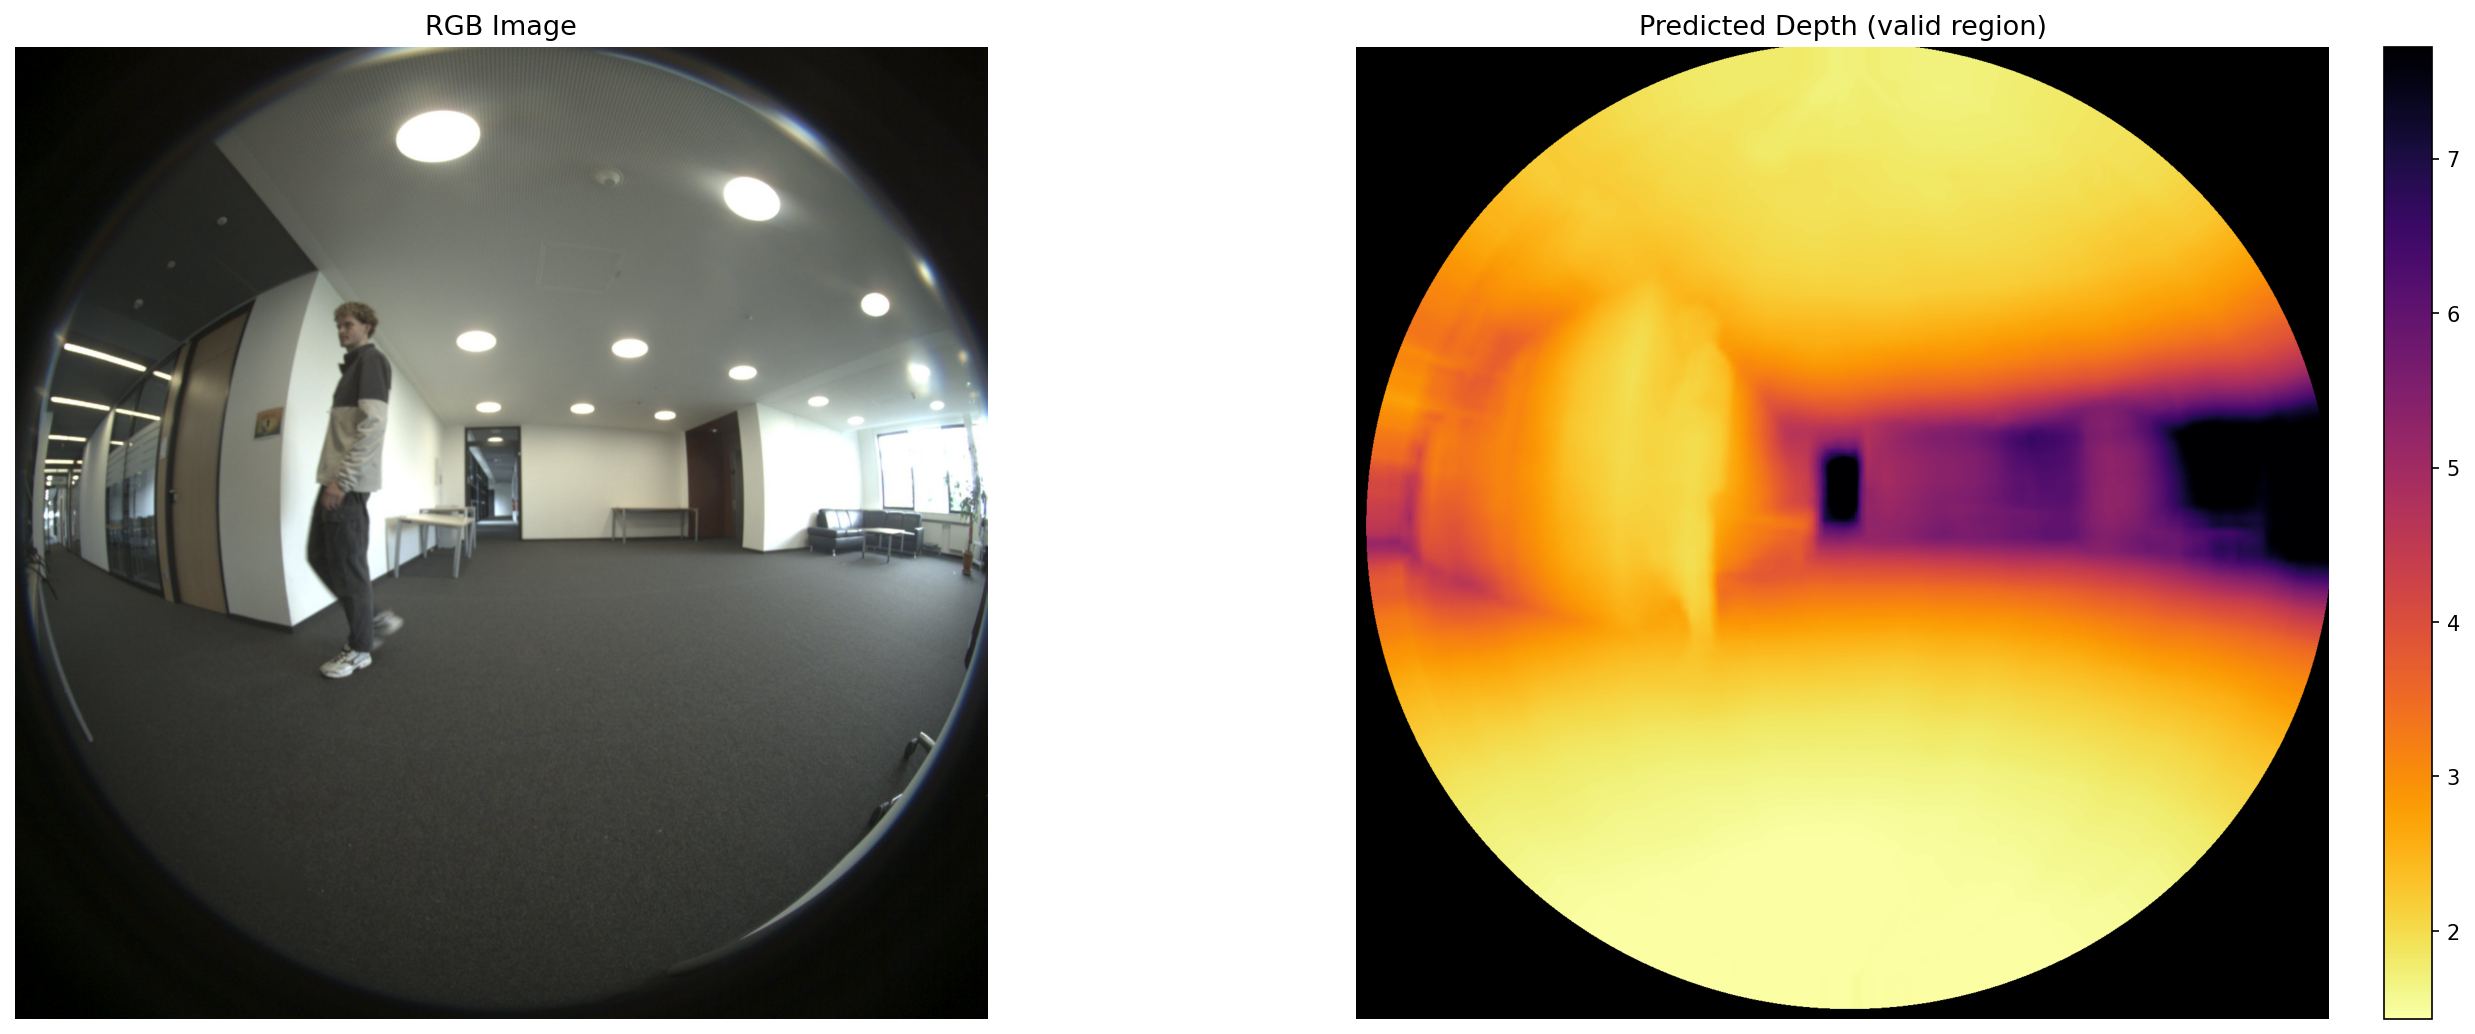
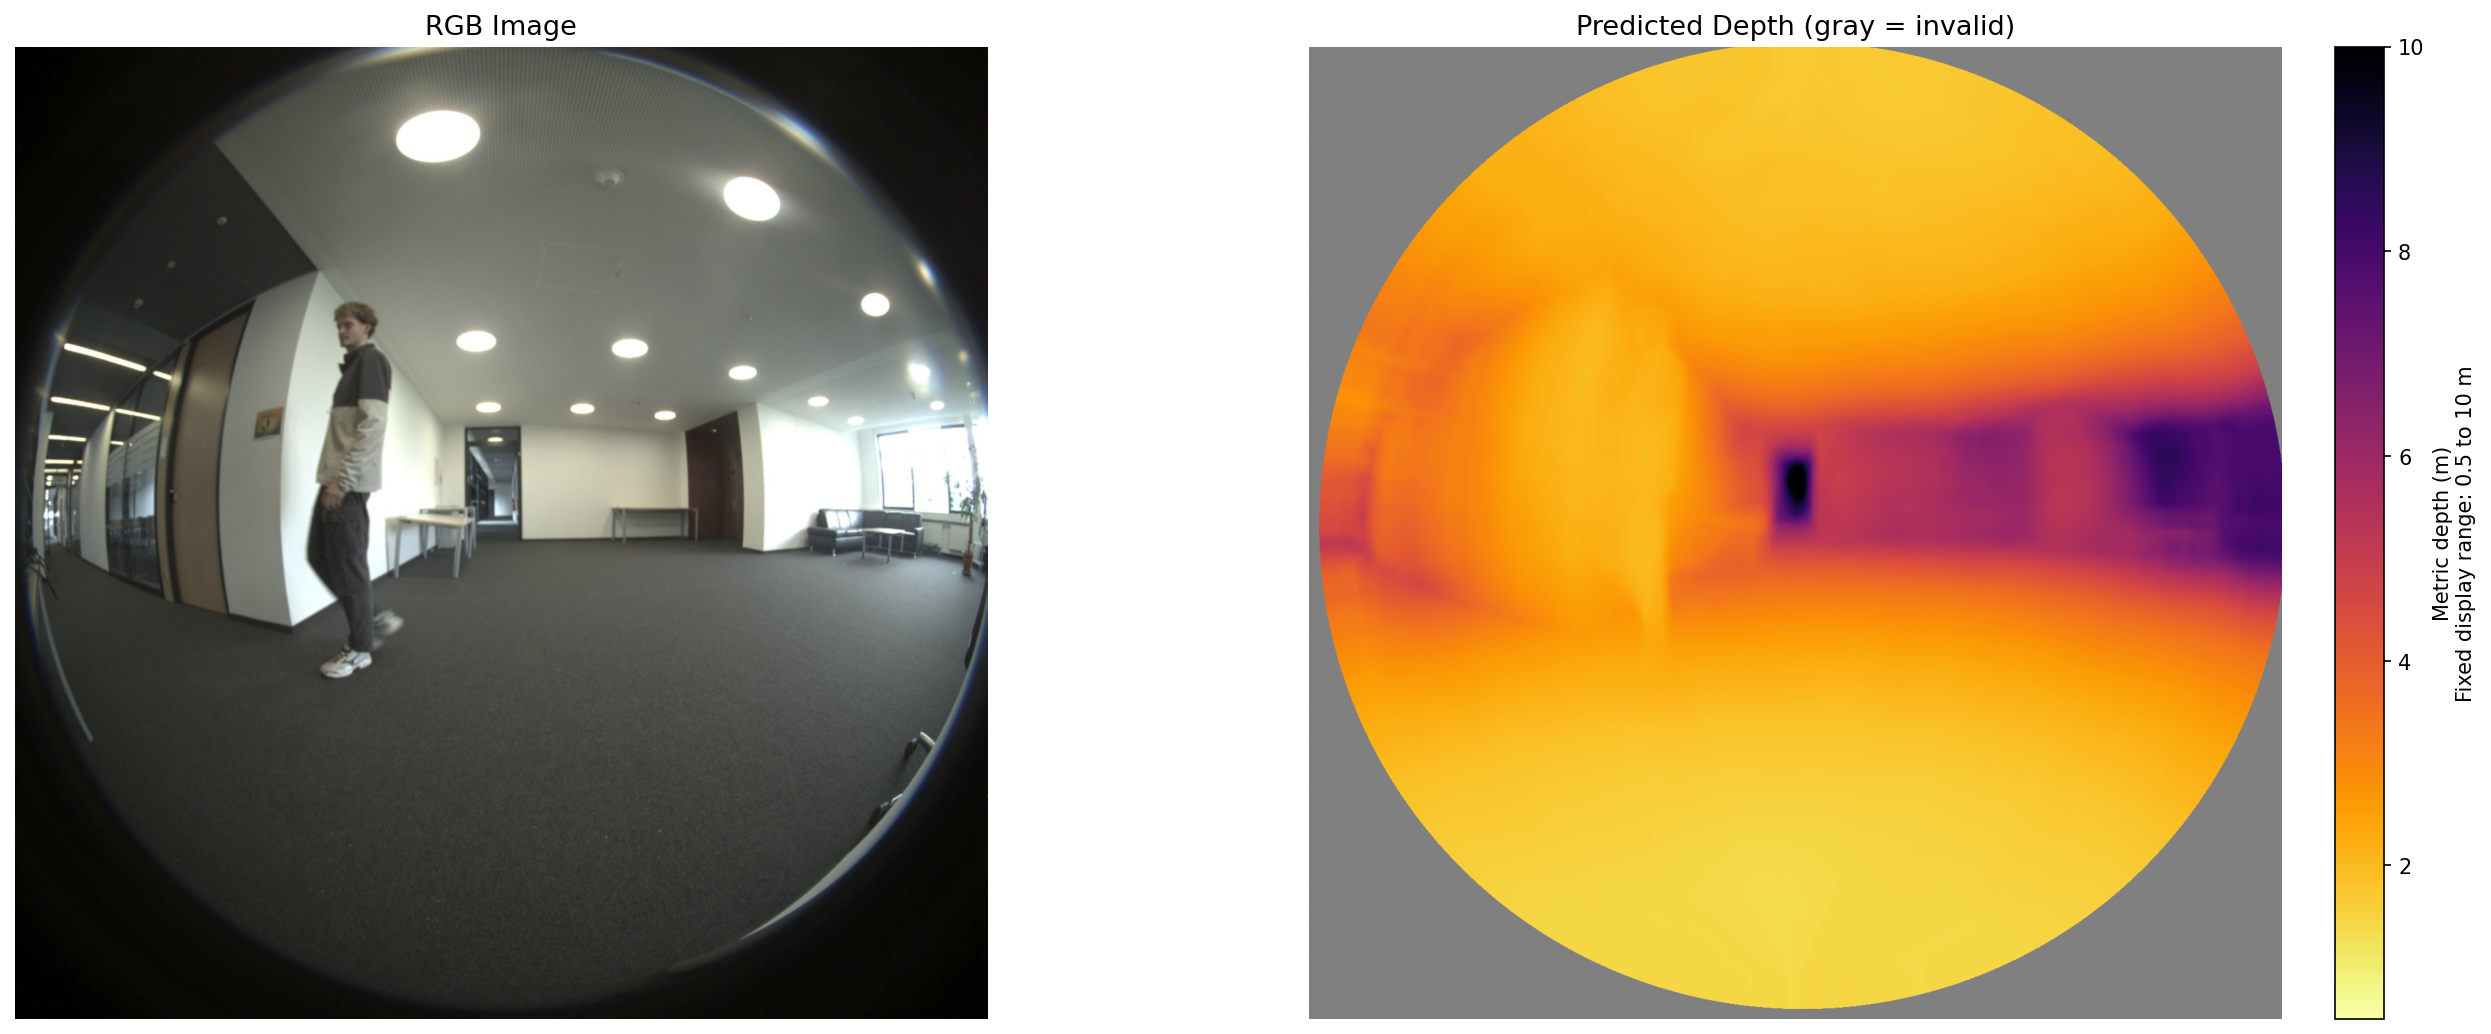
Add UniDAC examples to README

diff --git a/README.md b/README.md
@@ -170,32 +170,34 @@ and report-ready wording.
 
 Each visualization shows the input RGB (left) and predicted depth (right).
 Depth is colorized so **near = bright, far = dark**. Neutral gray means the
-model produced no valid depth there; it is not a far-away surface. These older
-qualitative examples used per-image automatic ranges, so compare scene shape
-and boundaries rather than colors between their panels. New plots state their
-exact scale directly on the colorbar.
+model produced no valid depth there; it is not a far-away surface. The DAC and
+UniDAC examples use the same fixed 0.5-10.0 m scale and can be compared by
+color. Depth Anything V2 uses a separately labelled per-image scale in
+arbitrary units, so compare only its scene shape and boundaries with the metric
+models. Every new plot states its exact scale directly on the colorbar.
 
-### Perspective camera (ZED_B) — model difference
+### Perspective camera (ZED_B) — model comparison
 
-The same perspective frame with two models. Depth Anything V2 gives the sharpest,
-cleanest result (crisp subject and room edges) but in relative units. DAC is
-**metric** (metres) and works across camera types, but is softer on standard
-pinhole images.
+The same perspective frame with all three models. Depth Anything V2 gives a
+sharp visual result but only in relative units. DAC and UniDAC produce metric
+depth in metres; their panels share the fixed display scale and are therefore
+directly comparable by color.
 
-| Depth Anything V2 (relative) | DAC `dac-indoor-resnet101` (metric) |
-| --- | --- |
-| ![Perspective — Depth Anything V2](docs/images/perspective_depth_anything_v2.png) | ![Perspective — DAC indoor ResNet101](docs/images/perspective_dac_indoor_resnet101.png) |
+| Depth Anything V2 (relative) | DAC `dac-indoor-resnet101` (metric) | UniDAC (metric) |
+| --- | --- | --- |
+| ![Perspective — Depth Anything V2](docs/images/perspective_depth_anything_v2.png) | ![Perspective — DAC indoor ResNet101](docs/images/perspective_dac_indoor_resnet101.png) | ![Perspective — UniDAC](docs/images/perspective_unidac.png) |
 
-### Fisheye camera (G1_A) — model difference
+### Fisheye camera (G1_A) — model comparison
 
-The same fisheye frame with two models. Depth Anything V2 (relative depth) does
-not understand fisheye distortion and gives a flat, roughly radial result with a
-faint subject. Depth Any Camera (DAC) is distortion-aware and **metric** (metres),
-resolving the standing person and the hallway structure.
+The same fisheye frame with all three models. Depth Anything V2 (relative
+depth) has no explicit fisheye calibration and gives a flat, roughly radial
+result with a faint subject. DAC and UniDAC both use the calibrated lens model
+and produce metric depth in metres. UniDAC is the accuracy-oriented model
+selected by the matched four-recording evaluation.
 
-| Depth Anything V2 (relative) | DAC `dac-indoor-resnet101` (metric) |
-| --- | --- |
-| ![Fisheye — Depth Anything V2](docs/images/fisheye_depth_anything_v2.png) | ![Fisheye — DAC indoor ResNet101](docs/images/fisheye_dac_indoor_resnet101.png) |
+| Depth Anything V2 (relative) | DAC `dac-indoor-resnet101` (metric) | UniDAC (metric) |
+| --- | --- | --- |
+| ![Fisheye — Depth Anything V2](docs/images/fisheye_depth_anything_v2.png) | ![Fisheye — DAC indoor ResNet101](docs/images/fisheye_dac_indoor_resnet101.png) | ![Fisheye — UniDAC](docs/images/fisheye_unidac.png) |
 
 **Current baseline:** Depth Anything V2 is the sharp perspective-camera visual
 baseline. For calibrated metric G1_A depth, the matched 1,204-frame evaluation
